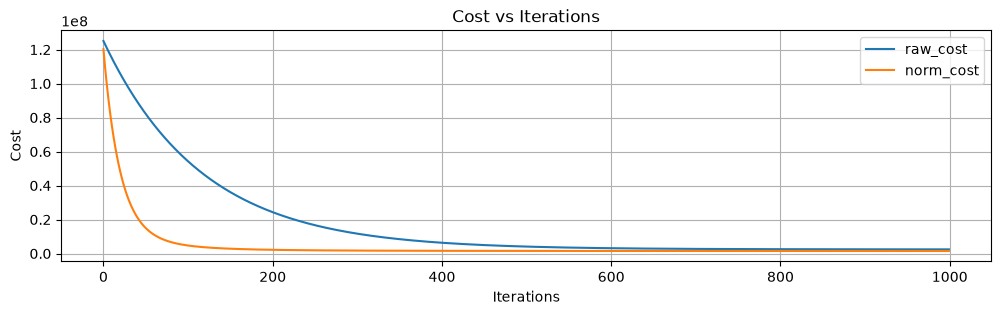
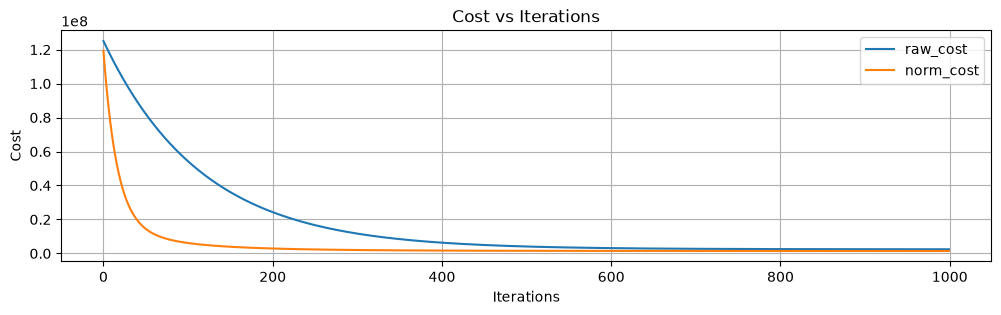
engineered new feature called trade balance

Changed region(s): [[0.0619, 0.3143, 0.991, 0.7429], [0.0619, 0.7429, 0.991, 0.8286]]

diff --git a/src/preprocessing.py b/src/preprocessing.py
@@ -5,10 +5,11 @@ def load_data(file_name):
     data = pd.read_csv(file_name)
     return data
 
-def split_features_targets(data, target_data):
-    x = data.drop(columns=["country_name","country_code",target_data])
+def split_features_targets(data, target_column):
+    data["trade_balance_usd"]=data["exports_usd"]-data["imports_usd"]
+    x = data.drop(columns=["country_name","country_code", target_column])
     feature_names = list(x.columns)
-    y = data[target_data]
+    y = data[target_column]
     y = y / 1000000000
 
     return x.values , y.values,feature_names

diff --git a/src/visualization.py b/src/visualization.py
@@ -19,7 +19,7 @@ def plot_cost_comparison(raw_cost_his,norm_cost_his,save=False):
     plt.show()
 
 def plot_data(x,y,feature_names,save=False):
-    figure,ax = plt.subplots(1,3,figsize=(12,3))
+    figure,ax = plt.subplots(1,4,figsize=(12,3))
     for i in range(x.shape[1]):
         ax[i].scatter(x[:, i], y)
         ax[i].set_title(f"{feature_names[i]} vs GDP")